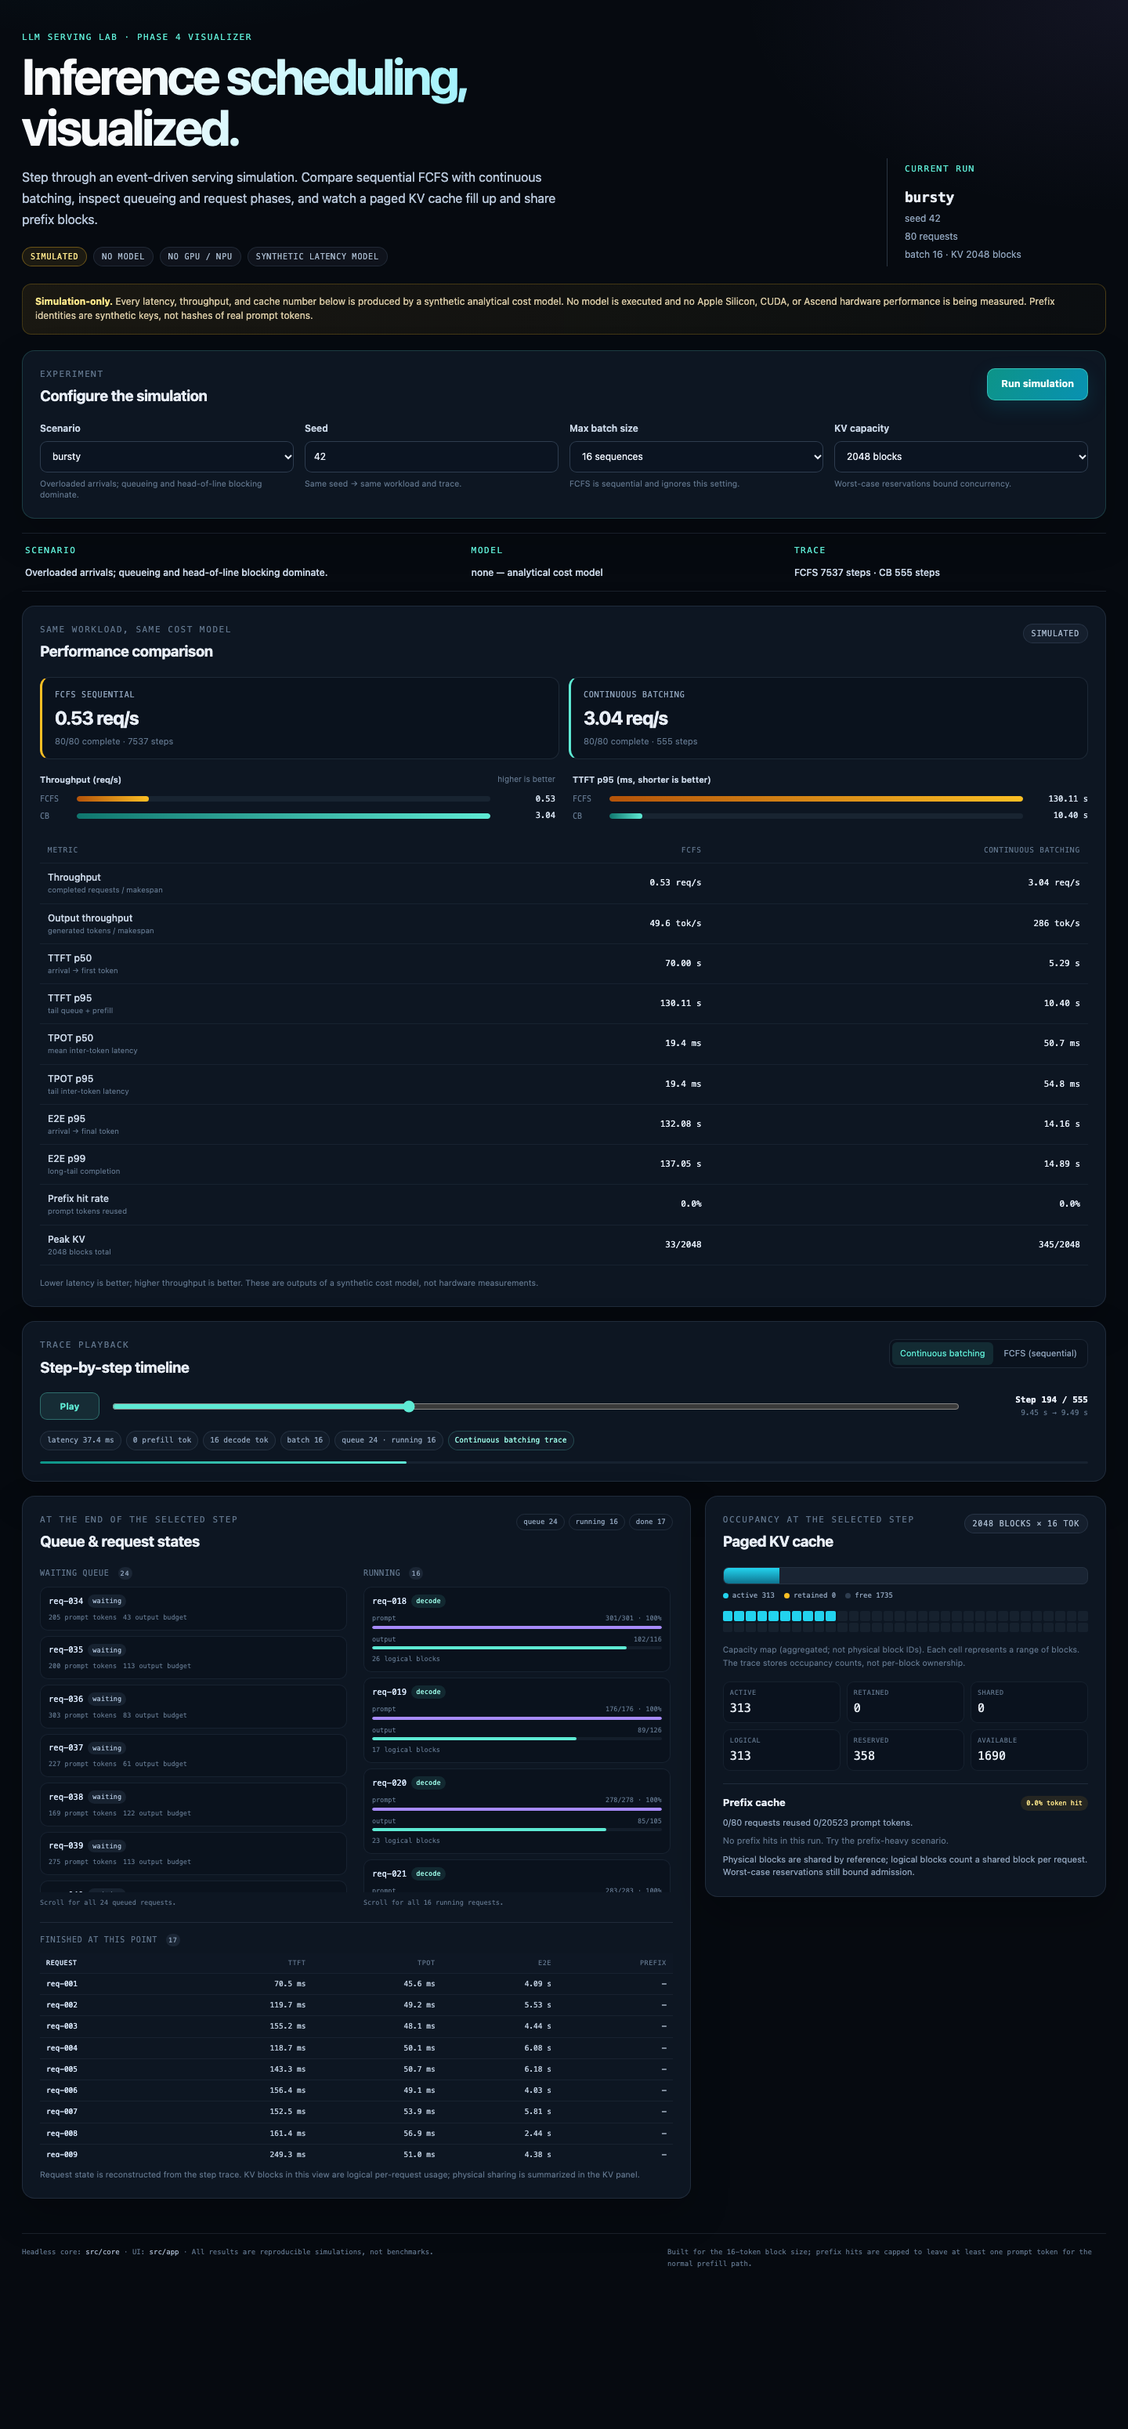
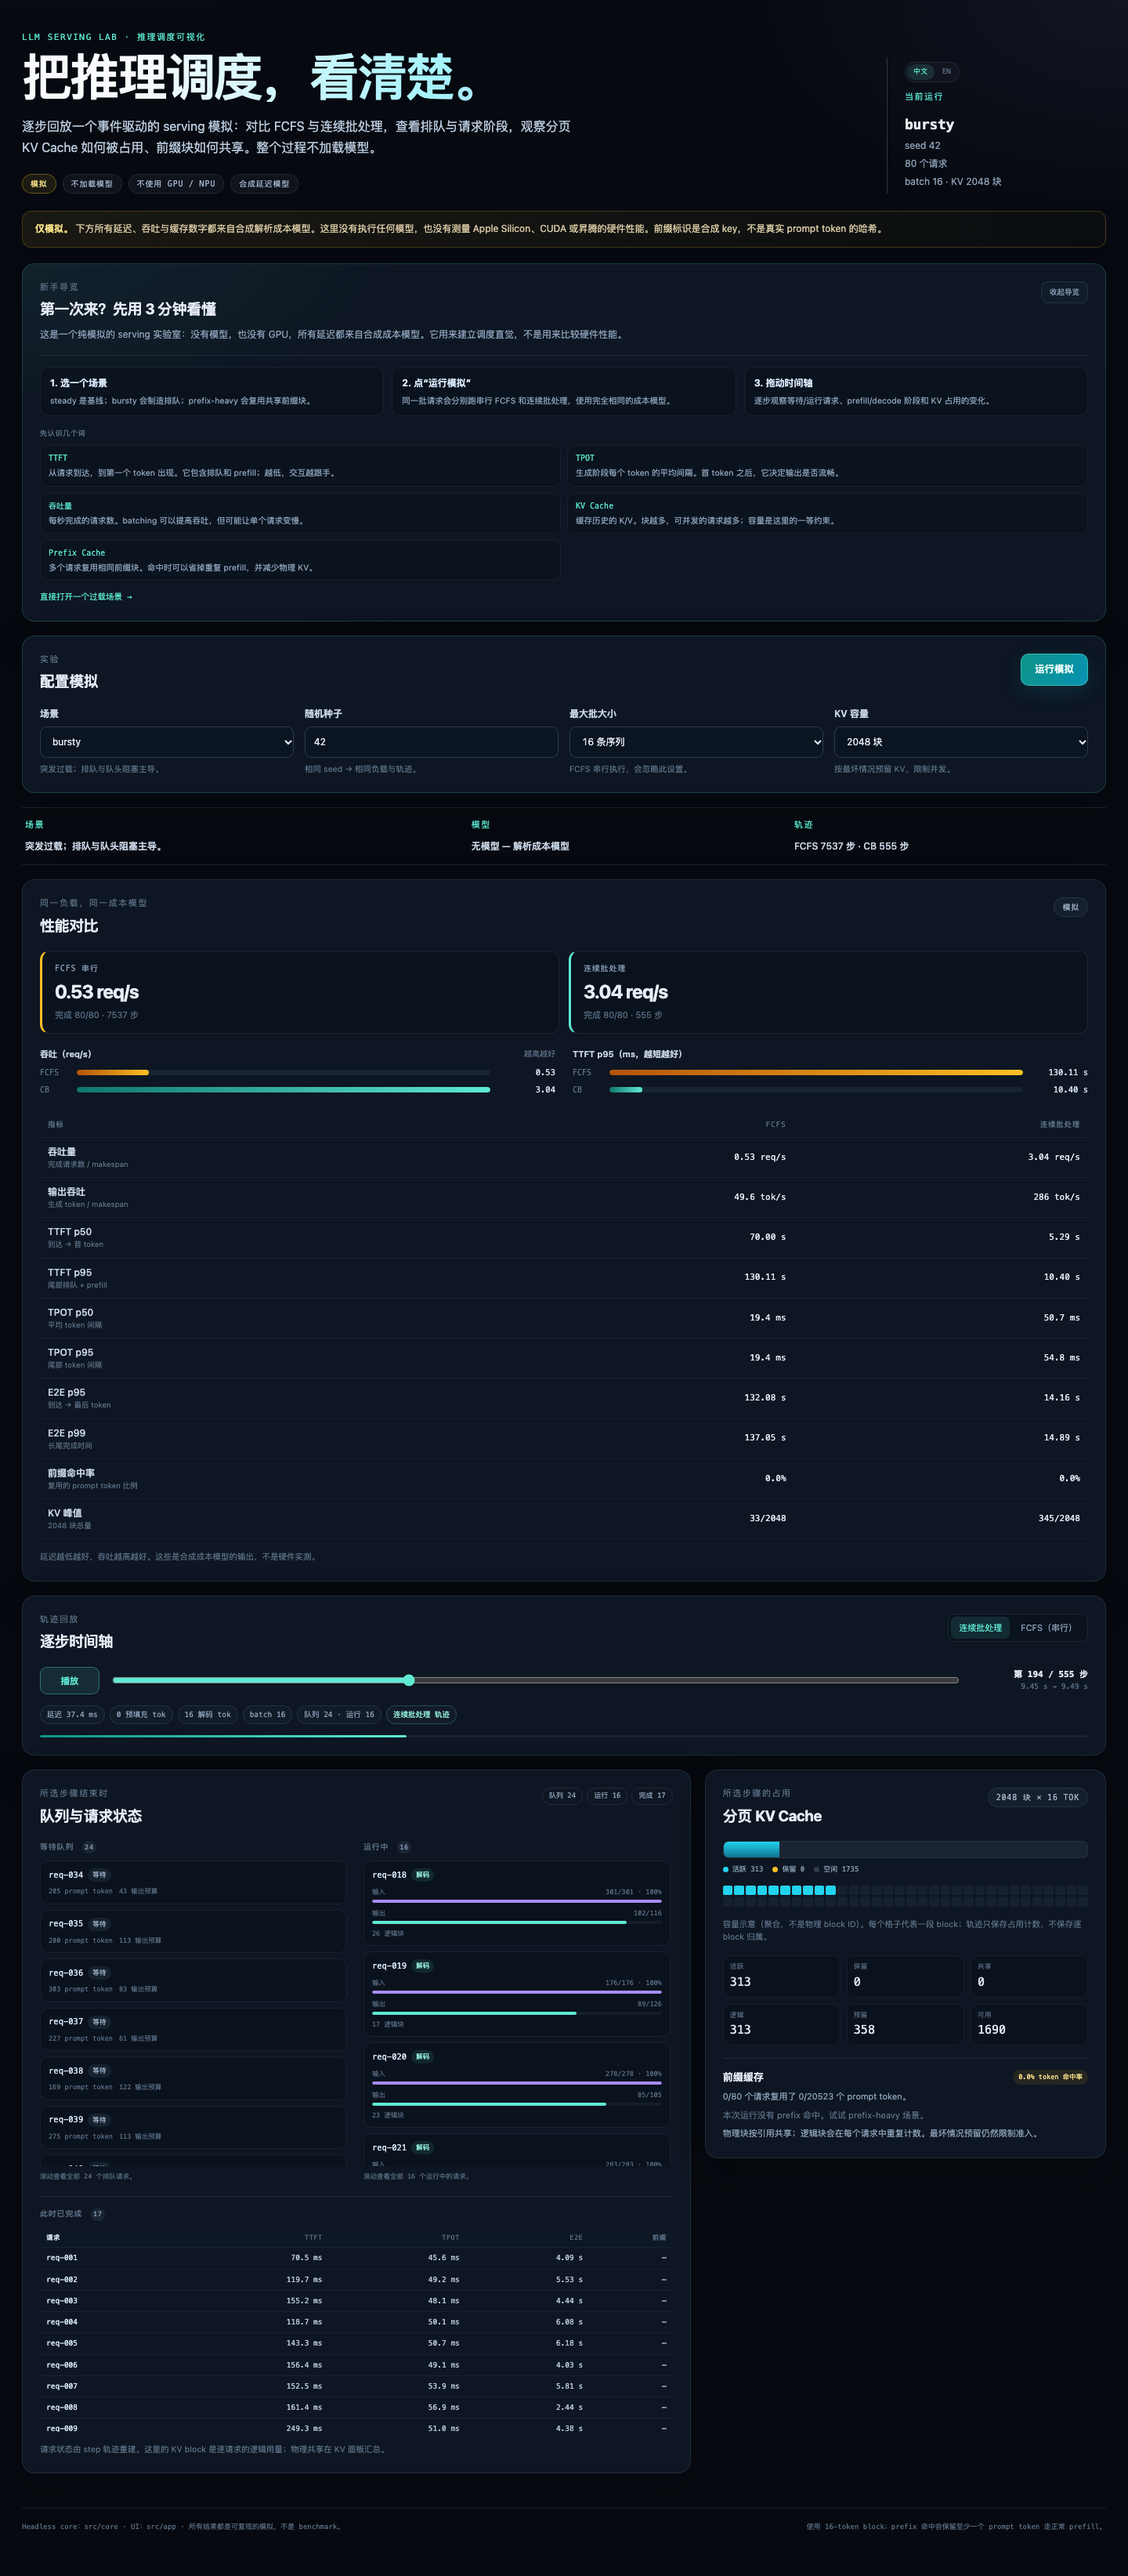
docs: refresh bilingual visualizer screenshots

diff --git a/README.md b/README.md
@@ -4,8 +4,8 @@
 > Apple Silicon laptop — without running a model or owning a GPU.
 
 **Phase 5 (P0) status:** event-driven simulator, FCFS and continuous batching, paged KV cache,
-retained prefix cache, seeded benchmark matrix, React trace visualizer, plus Biome lint/format,
-coverage gates, a versioned benchmark JSON Schema, Node 22/24 CI, and contributor docs.
+retained prefix cache, seeded benchmark matrix, bilingual React trace visualizer, plus Biome
+lint/format, coverage gates, a versioned benchmark JSON Schema, Node 22/24 CI, and contributor docs.
 
 [![CI](https://github.com/lmjshineee/tiny-llm-server/actions/workflows/ci.yml/badge.svg)](https://github.com/lmjshineee/tiny-llm-server/actions/workflows/ci.yml)
 [![Deploy visualizer](https://github.com/lmjshineee/tiny-llm-server/actions/workflows/pages.yml/badge.svg)](https://github.com/lmjshineee/tiny-llm-server/actions/workflows/pages.yml)
@@ -82,9 +82,10 @@ pnpm validate:bench bench-smoke.json   # JSON Schema validation
 
 The React app is a thin consumer of `SimulationResult`; the scheduler core stays headless.
 
-<img src="docs/visualizer-bursty.png" alt="Screenshot of the simulated LLM serving visualizer showing a bursty scenario, performance comparison, timeline, 24 queued requests, 16 running requests, and KV cache occupancy" width="100%" />
+<img src="docs/visualizer-bursty.png" alt="Screenshot of the simulated LLM serving visualizer in Chinese, showing the beginner guide, bursty scenario comparison, timeline, 24 queued requests, 16 running requests, and KV cache occupancy" width="100%" />
 
-*The bursty scenario at step 194/555. Every number is simulated.*
+*Chinese UI with the beginner guide open. The bursty scenario is at step 194/555; every number
+is simulated.*
 
 - Scenario, seed, batch-size, and KV-capacity controls; runs both policies against identical
   requests.
@@ -93,6 +94,8 @@ The React app is a thin consumer of `SimulationResult`; the scheduler core stays
 - Waiting queue, running prefill/decode states, per-request prompt/output progress, prefix hits,
   and logical block counts.
 - Paged KV occupancy (active/retained/shared/reserved), a capacity map, and prefix-cache stats.
+- **Bilingual UI** (中文 / English) with a first-visit guide; the language follows the browser and
+  can be switched in the header. Add `?lang=zh` or `?lang=en` to the URL to force one.
 
 A prefix-cache view is available at
 [`docs/visualizer-prefix.png`](docs/visualizer-prefix.png). Start the app with:
@@ -106,12 +109,12 @@ pnpm preview:web             # preview the production build
 Deep links initialize the app from the URL:
 
 ```text
-http://localhost:5173/?scenario=prefix-heavy&tab=continuous-batching&step=0.8&seed=42
+http://localhost:5173/?scenario=prefix-heavy&tab=continuous-batching&step=0.8&seed=42&lang=zh
 ```
 
 `scenario`, `seed`, `batch` (4/8/16), `kv` (512/1024/2048), `tab` (`fcfs`/`continuous-batching`),
-and `step` (0..1 fraction of the trace) are supported. The UI stores occupancy aggregates, not
-physical block IDs, so the KV map is explicitly labeled as aggregated.
+`step` (0..1 fraction of the trace), and `lang` (`zh`/`en`) are supported. The UI stores occupancy
+aggregates, not physical block IDs, so the KV map is explicitly labeled as aggregated.
 
 ## Example output
 
@@ -317,7 +320,7 @@ TASKS.md             milestone plan and verification record
 ## Testing and CI
 
 ```text
-14 test files, 84 tests (as of Phase 5 P0)
+14 test files, 85 tests (as of Phase 5 P0 + UI polish)
 - exact scheduler and engine timing tests
 - KV allocation/free/capacity tests
 - prefix sharing, retention, contiguous-hit, and LRU-eviction tests
@@ -382,8 +385,9 @@ unless explicitly marked as measured.
 
 第五阶段 P0 已完成：Biome lint/format、Vitest 覆盖率门槛、Node 22/24 CI、benchmark
 JSON Schema 校验、CONTRIBUTING/CHANGELOG/issue 模板，以及 GitHub Pages 静态部署 workflow。
-公开 demo 已部署在 <https://lmjshineee.github.io/tiny-llm-server/>。M6（prefix-aware
-admission/preemption）和小模型校准尚未开始。当前共有 14 个测试文件、84 个单元/属性/UI 测试。
+公开 demo 已部署在 <https://lmjshineee.github.io/tiny-llm-server/>。界面支持中文/English
+切换、浏览器语言检测与新手导览；可用 `?lang=zh` 强制中文。M6（prefix-aware
+admission/preemption）和小模型校准尚未开始。当前共有 14 个测试文件、85 个单元/属性/UI 测试。
 
 ```bash
 pnpm install && pnpm check       # typecheck + lint + tests

diff --git a/docs/learning/INTERNSHIP.md b/docs/learning/INTERNSHIP.md
@@ -8,7 +8,7 @@
 ## 1. 你目前已经拥有的证据
 
 - 一个可运行的确定性模拟器：FCFS、continuous batching、paged KV、prefix cache。
-- 84 个测试，包含 property-based、schema 与 UI 测试。
+- 85 个测试，包含 property-based、schema 与 UI 测试。
 - 5 个场景 / 80 个 matrix cell 的 benchmark，版本化 JSON。
 - React 可视化：时间轴、队列、请求状态、KV 占用、指标对比。
 - 一份架构文档，明确写出模拟边界与未实现项。
@@ -86,7 +86,7 @@ LLM Serving Lab — 独立项目（TypeScript / React / 系统模拟）
 
 ### 数字怎么处理
 
-可以写“84 tests”“5 scenarios × 80 cells”“4 scheduler/KV/chunk/batch 维度”，这些是可验证的。
+可以写“85 tests”“5 scenarios × 80 cells”“4 scheduler/KV/chunk/batch 维度”，这些是可验证的。
 不要写“TTFT 降低 99.6%”这类数字而不加 context；模拟结果会引来追问，而且很容易被认定为夸大。
 
 ---
@@ -195,6 +195,6 @@ LLM Serving Lab — 独立项目（TypeScript / React / 系统模拟）
 - Prefix key 是合成的，不是真实 token hash。
 - KV admission 使用 worst-case reservation，尚未实现 prefix-aware admission/preemption。
 - UI 的 KV 图是聚合占用，不是物理 block ID。
-- 84 个测试通过；CI 工作流已写，但尚未在 GitHub 上实际执行（没有 remote）。
+- 85 个测试通过；CI（Node 22/24）与 Pages 部署已在本仓库的 GitHub Actions 实际执行成功。
 
 把这些说清楚，不会减分；反而会显得你知道系统的边界。

diff --git a/TASKS.md b/TASKS.md
@@ -233,7 +233,7 @@ Commits:
 
 | Check | Command | Result |
 | --- | --- | --- |
-| Types + lint + tests | `pnpm check` | 14 files, 84 tests, pass |
+| Types + lint + tests | `pnpm check` | 14 files, 85 tests, pass |
 | Formatting | `pnpm format:check` | pass |
 | Coverage | `pnpm test:coverage` | thresholds enforced |
 | Web build | `pnpm build:web` | pass with relative base |
@@ -248,6 +248,7 @@ Commits:
 - `ci: add Node matrix, schema validation, and Pages workflow`
 - `docs: add contributor docs and update Phase 5 status`
 - `docs: add live demo and CI badges`
+- `feat(ui): add bilingual interface and beginner guide`
 
 ## M6 — Realism and calibration ⏳
 
@@ -296,3 +297,5 @@ Commits:
 - `ci: add Node matrix, schema validation, and Pages workflow`
 - `docs: add contributor docs and update Phase 5 status`
 - `docs: add live demo and CI badges`
+- `feat(ui): add bilingual interface and beginner guide`
+- `docs: refresh bilingual visualizer screenshots`

diff --git a/CHANGELOG.md b/CHANGELOG.md
@@ -3,6 +3,24 @@
 All notable changes to this project are documented here. The project is a simulation lab; all
 default latency and throughput values are synthetic and are not hardware measurements.
 
+## [0.5.1] — 2026-11-13
+
+### Added
+
+- Bilingual UI (中文 / English) with browser-language detection, a header language switch,
+  `?lang=zh|en` deep links, and localStorage persistence.
+- First-visit beginner guide explaining the simulation, how to run it, and the core metrics.
+- Chinese labels for controls, metrics, request states, KV statistics, and the comparison view.
+
+### Fixed
+
+- Aligned the seed input with the other control fields on wide screens (uniform width; native
+  number spinners hidden).
+
+### Tests
+
+- 14 test files, 85 tests, including Chinese UI and language-switch coverage.
+
 ## [0.5.0] — 2026-11-13
 
 ### Added

diff --git a/docs/learning/README.md b/docs/learning/README.md
@@ -2,7 +2,7 @@
 
 > 适用对象：每周约 **15 小时**、准备 8 周、目标为 LLM 推理系统 / AI Infra 实习。
 > 当前项目状态：M0–M4 与 P0 质量收口已完成（模拟器、调度、KV Cache、Prefix Cache、Benchmark、
-> React 可视化、lint/coverage/JSON Schema/CI，84 个测试）。**本目录是学习计划，不代表 M6 或
+> React 可视化、lint/coverage/JSON Schema/CI，85 个测试）。**本目录是学习计划，不代表 M6 或
 > 真实模型校准已经实现。**
 
 ---
